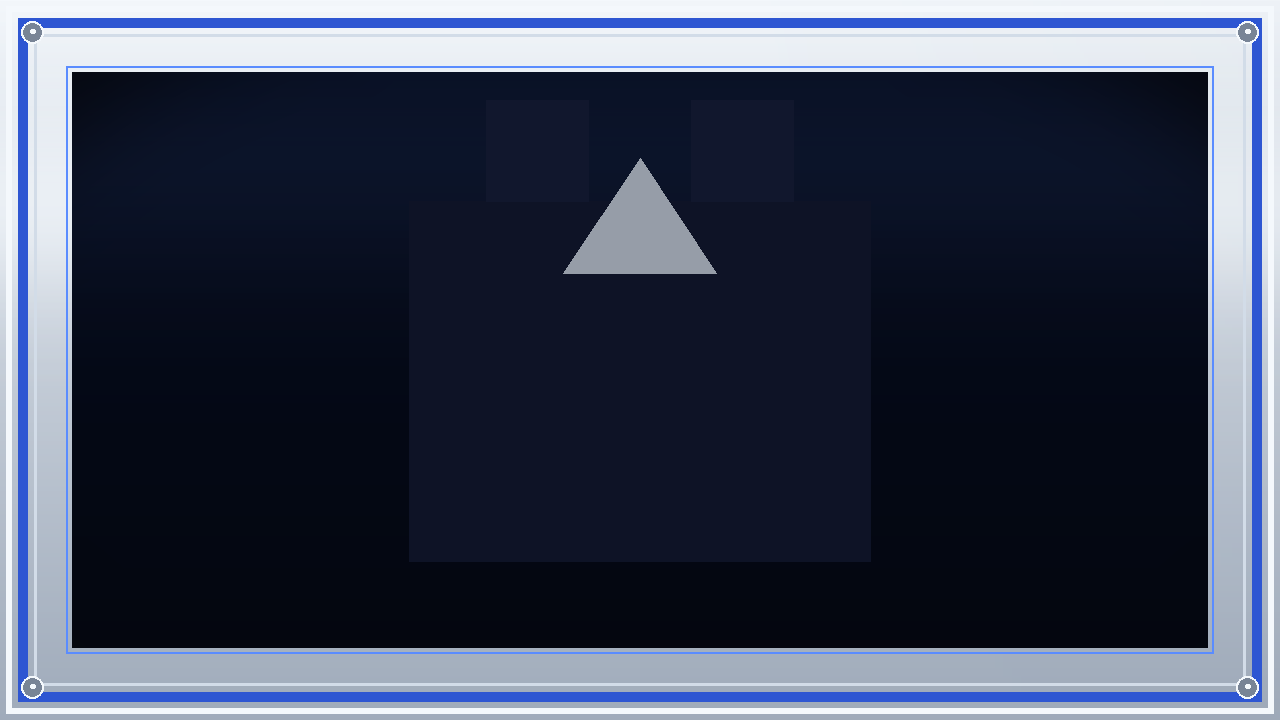
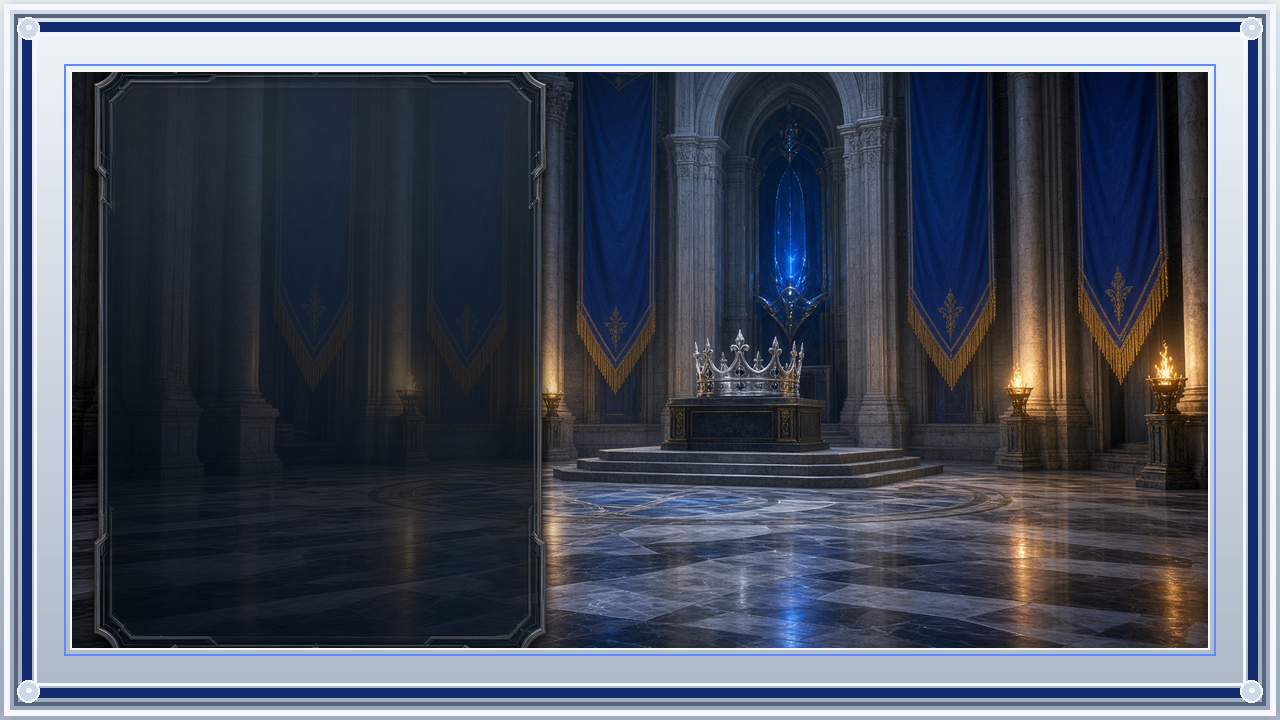
Add bronze, silver, gold, all-star halls and wordless filled borders
Rank crests with supporter lettering plus keep/flags/crown/throne scenes with no type.

diff --git a/citadel-kit.css b/citadel-kit.css
@@ -1,5 +1,4 @@
-/* Citadel Prime Silver — MixMods / Oxide menu plates
-   Load next to your HUD. Frame PNGs live beside this file. */
+/* Citadel Prime Silver — MixMods / Oxide menu plates */
 
 .mm-frame {
   position: relative;
@@ -13,6 +12,14 @@
 .mm-frame--cit-crown { border-image-source: url("frames/crown.png"); }
 .mm-frame--cit-banner { border-image-source: url("frames/banner.png"); }
 .mm-frame--cit-prime { border-image-source: url("frames/prime.png"); }
+.mm-frame--cit-fill-bronze { border-image-source: url("frames/fill-bronze.png"); }
+.mm-frame--cit-fill-silver { border-image-source: url("frames/fill-silver.png"); }
+.mm-frame--cit-fill-gold { border-image-source: url("frames/fill-gold.png"); }
+.mm-frame--cit-fill-allstar { border-image-source: url("frames/fill-allstar.png"); }
+.mm-frame--cit-fill-keep { border-image-source: url("frames/fill-keep.png"); }
+.mm-frame--cit-fill-flags { border-image-source: url("frames/fill-flags.png"); }
+.mm-frame--cit-fill-gem { border-image-source: url("frames/fill-gem.png"); }
+.mm-frame--cit-fill-throne { border-image-source: url("frames/fill-throne.png"); }
 
 .mm-panel {
   position: relative;
@@ -22,6 +29,13 @@
   padding: 11% 10% 13%;
   min-height: 220px;
 }
-.mm-panel--citadel { background-image: url("panels/citadel.png"); }
+.mm-panel--bronze { background-image: url("panels/bronze.png"); }
+.mm-panel--silver { background-image: url("panels/silver.png"); }
+.mm-panel--gold { background-image: url("panels/gold.png"); }
+.mm-panel--allstar { background-image: url("panels/allstar.png"); }
+.mm-panel--keep { background-image: url("panels/keep.png"); }
+.mm-panel--flags { background-image: url("panels/flags.png"); }
+.mm-panel--gem { background-image: url("panels/gem.png"); }
 .mm-panel--throne { background-image: url("panels/throne.png"); }
+.mm-panel--citadel { background-image: url("panels/citadel.png"); }
 .mm-panel--hall { background-image: url("panels/hall.png"); }

diff --git a/README.md b/README.md
@@ -1,76 +1,25 @@
 # Citadel Prime Silver
 
-Chrome + royal-blue enamel plates for MixMods / Oxide menus, matched to the **Citadel Prime Silver** supporter crest.
+Royal-blue enamel and chrome plates for MixMods / Oxide menus.
 
-Fan-made UI kit. Not affiliated with Citadel Prime or Facepunch.
+**Buttons** (720×240, 4 states, no letters)
 
-## Buttons
+`silver` · `royal` · `crown` · `keep` · `banner`
 
-720×240 PNG, **no letters** (you overlay CUI / CSS text). Four states each.
+**Hollow frames** (720×720, 9-slice)
 
-| id | look |
-| --- | --- |
-| `silver` | Polished chrome plate, blue inner glow |
-| `royal` | Deep royal enamel, silver bevel |
-| `crown` | Chrome with crown notches |
-| `keep` | Dark stone keep, merlons |
-| `banner` | Royal silk with silver swallowtail |
+`.mm-frame--cit-shield|keep|crown|banner|prime`
 
-```
-buttons/<id>/normal.png
-buttons/<id>/hover.png
-buttons/<id>/pressed.png
-buttons/<id>/disabled.png
-```
+**Supporter halls** (filled, 1280×720) — rank lettering on the crest
 
-Sprite button CSS (same silhouette as MixMods plates):
+`.mm-panel--bronze` · `silver` · `gold` · `allstar`
 
-```css
-.rui-sprite {
-  background: var(--rui-n) center / 100% 100% no-repeat;
-}
-.rui-sprite:hover:not(:disabled) { background-image: var(--rui-h); }
-.rui-sprite:active:not(:disabled) { background-image: var(--rui-p); }
-.rui-sprite:disabled { background-image: var(--rui-d); }
-```
+**Wordless scenes** — same theme, no type
 
-## Frames (9-slice)
+`.mm-panel--keep` · `flags` · `gem` · `throne`
 
-720×720, hollow centre, 96px slice.
+**Filled 9-slice borders** (artwork in the fill)
 
-`shield` · `keep` · `crown` · `banner` · `prime`
+`.mm-frame--cit-fill-bronze|silver|gold|allstar|keep|flags|gem|throne`
 
-```html
-<div class="mm-frame mm-frame--cit-shield">…</div>
-```
-
-```css
-.mm-frame {
-  border: 48px solid transparent;
-  border-image-slice: 96 fill;
-  border-image-repeat: stretch;
-}
-.mm-frame--cit-shield { border-image-source: url("frames/shield.png"); }
-```
-
-## Panels (filled halls)
-
-Buttons sit on these, not a hole.
-
-`citadel` · `throne` · `hall`
-
-```html
-<div class="mm-panel mm-panel--citadel">
-  <button class="rui-sprite">ENTER</button>
-</div>
-```
-
-Load `citadel-kit.css` from this repo.
-
-## Crest
-
-`crest.png` — reference lockup (not a UI plate).
-
-## Licence
-
-Use on your own servers and menus. Do not sell the crest artwork as your own. Palette and plates are provided as-is.
+Repo: https://github.com/MickMickMick73/Citadel-Prime-Silver
